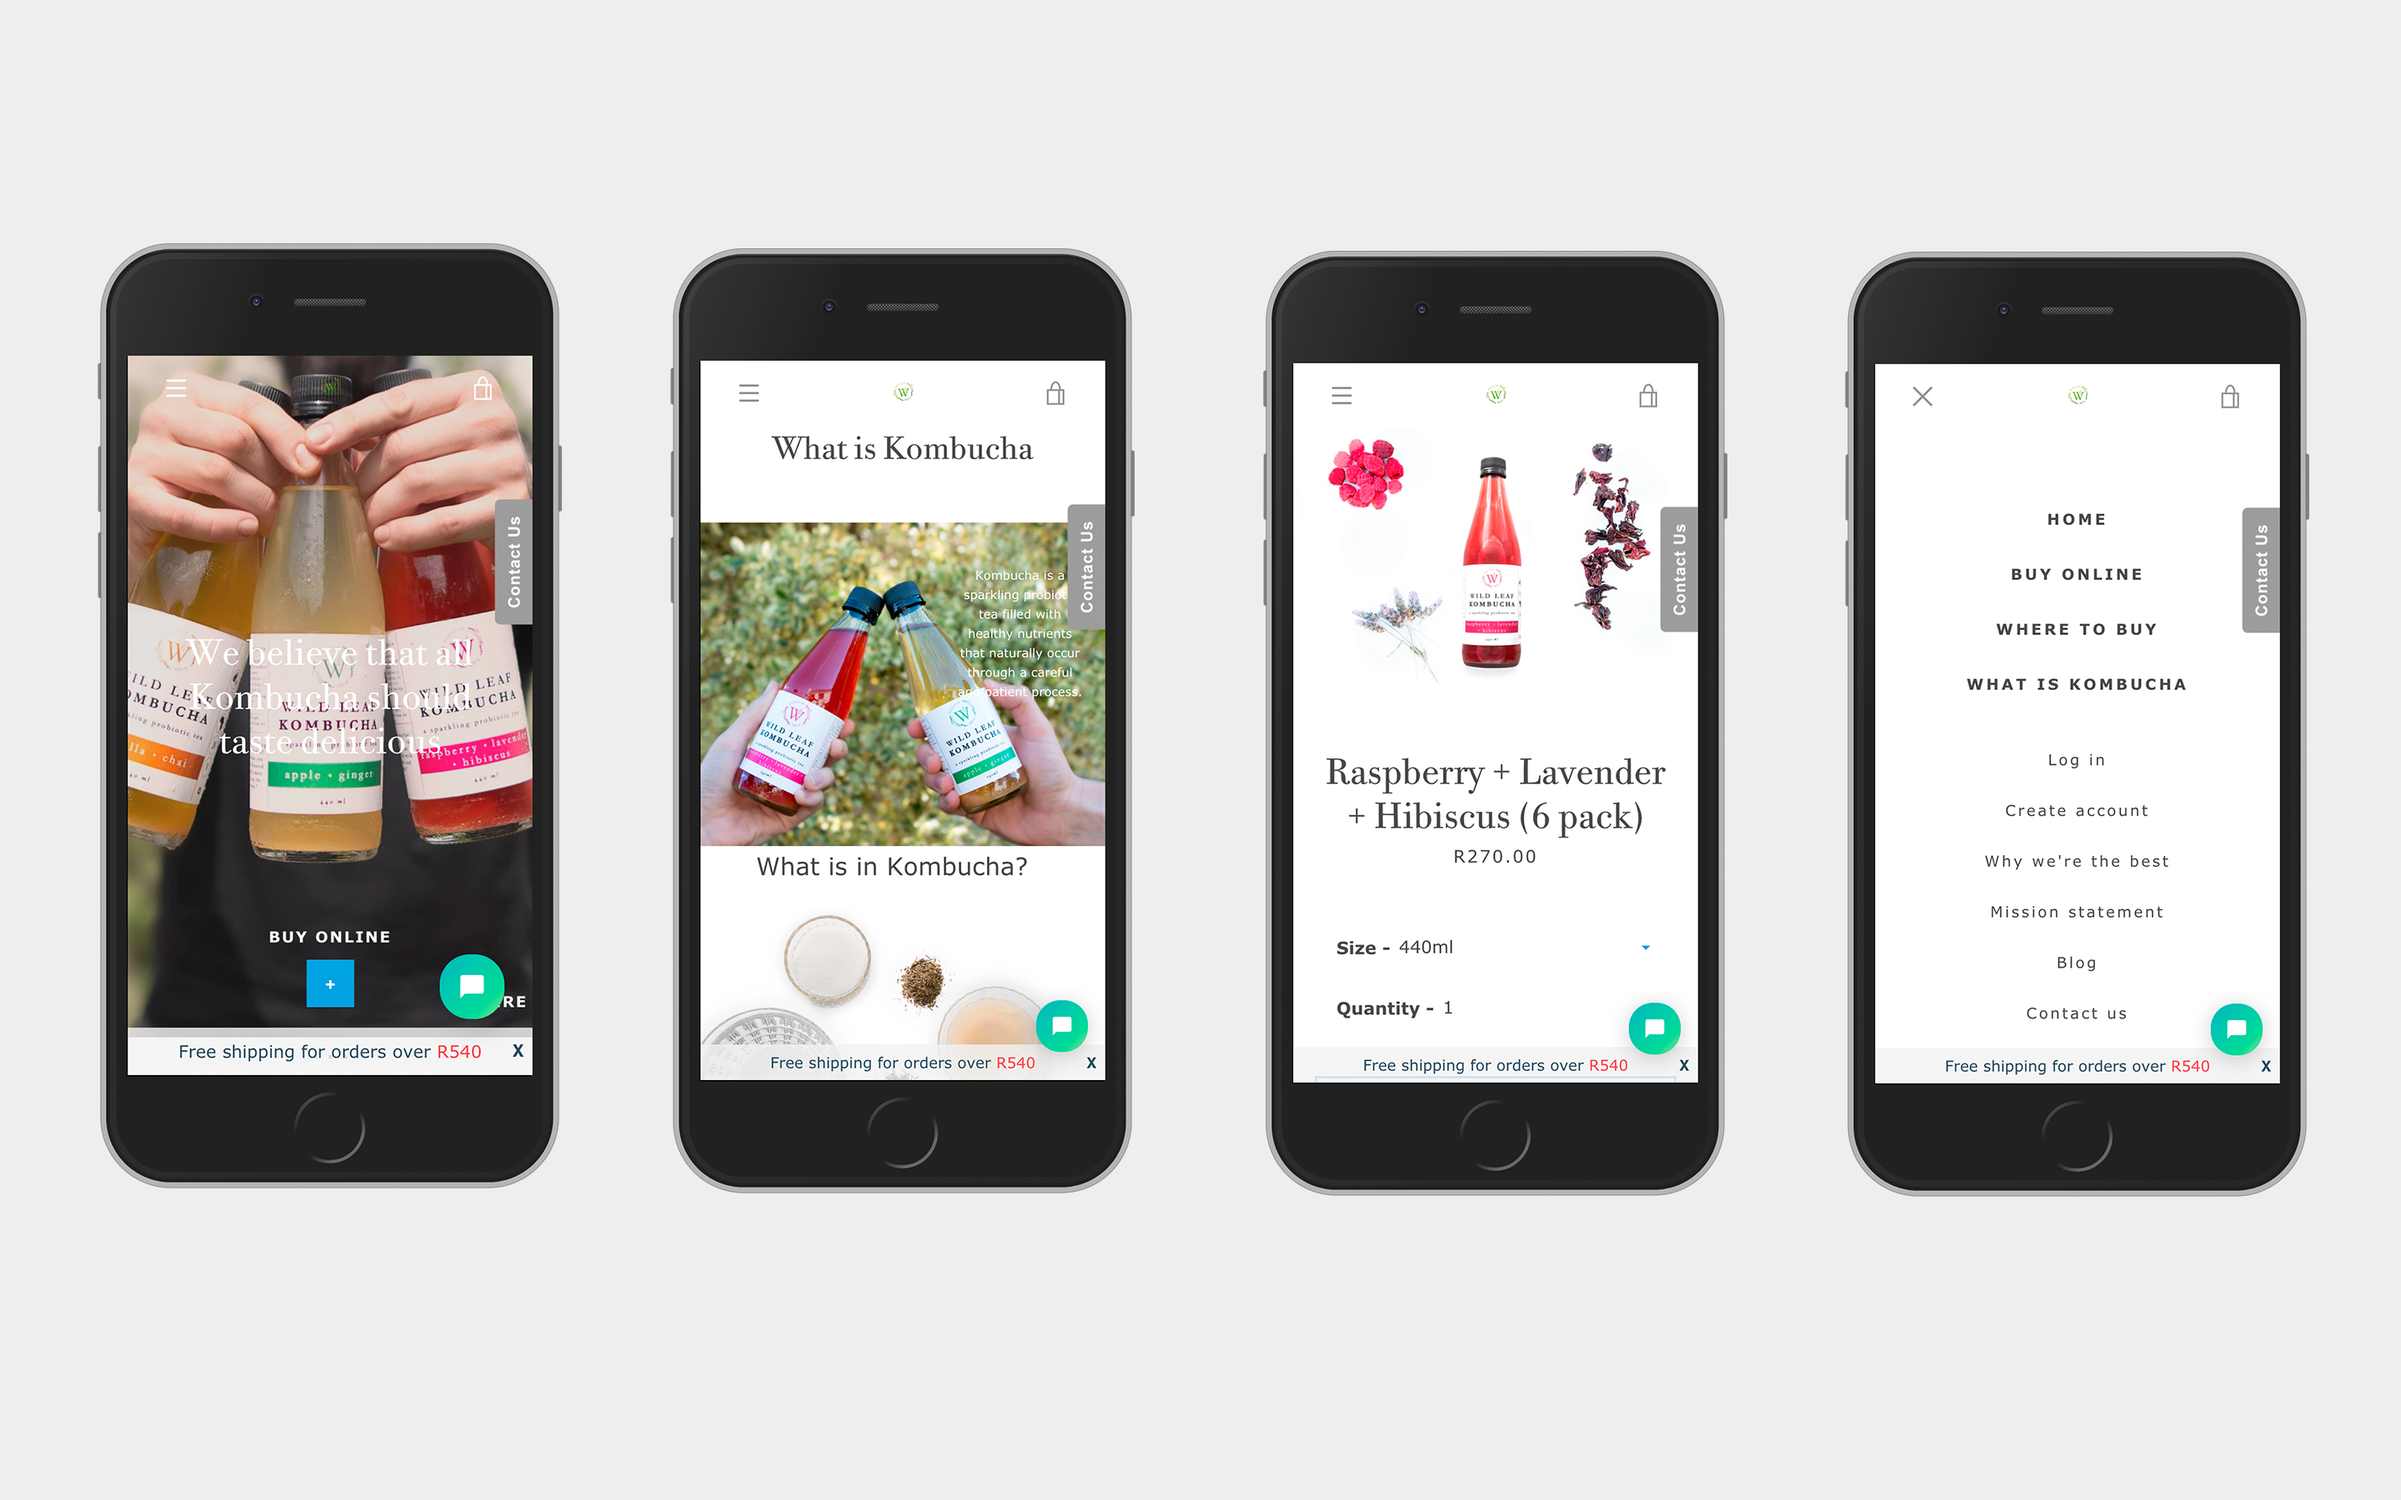
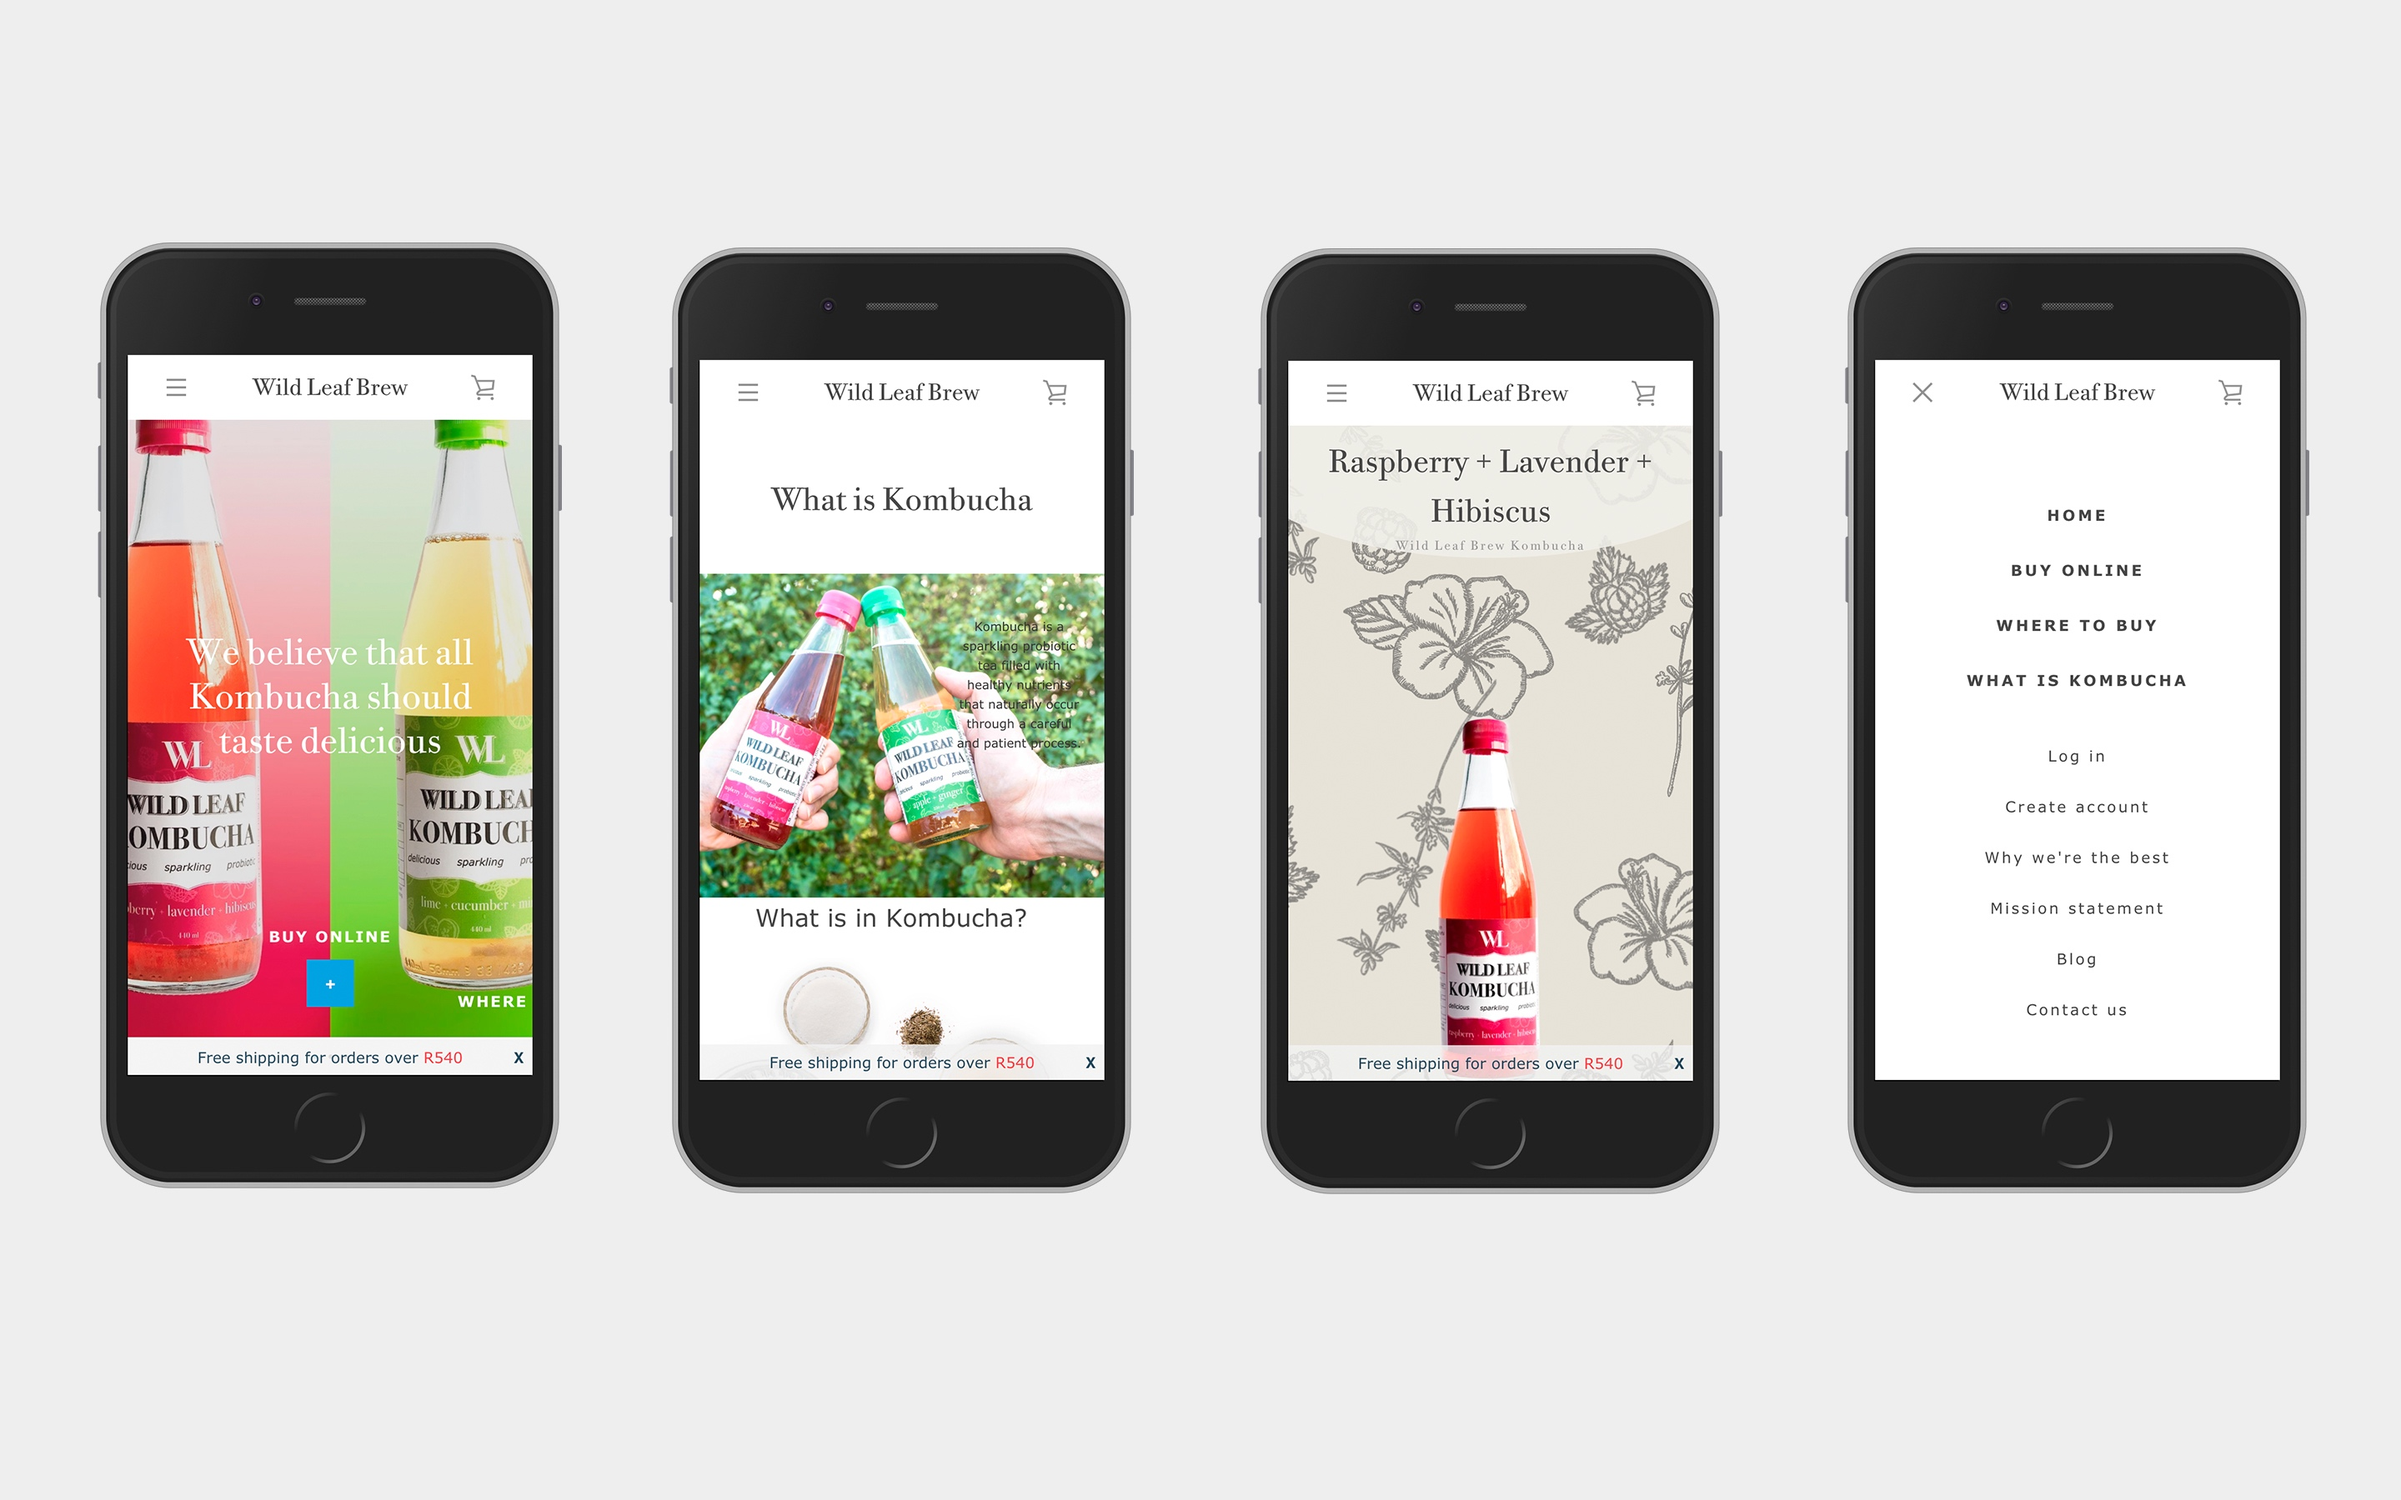
Product page add

diff --git a/Single product page/index.html b/Single product page/index.html
@@ -1,0 +1,92 @@
+<!DOCTYPE html>
+<html>
+    <head>
+        <title>Neil, freelance web developer and designer, Cape Town, South Africa</title>
+        <link href="../styles.css" rel="stylesheet" type="text/css">
+        <link href="https://fonts.googleapis.com/css?family=Open+Sans:300,400|Raleway&display=swap" rel="stylesheet">
+        <meta name="viewport" content="width=device-width, initial-scale=1.0">
+    </head>
+    <body>
+        <!--Nav-->
+        <section class="nav-bar">
+            <div class="logo">
+                <a href="../index.html"><img class="NM-logo" src="../Pictures/NM Logo fill.png"/></a>  
+            </div>
+            <div id="main-nav" class="main-nav">
+                <ul id="navlist" class="menu-hover-lines overlay-content">
+                    <li class="link"><a  href="../index.html">home</a></li>
+                    <li class="link"><a href="../About me/index.html">about</a></li>
+                    <li class="link"><a href="../My projects/index.html">portfolio</a></li>
+                </ul>   
+            </div>
+            <div class="hamburger">
+                <a href="javascript:void(0);" class="icon" >
+                    <input class="menu-btn"  type="checkbox" id="menu-btn" />
+                    <label class="menu-icon" id="hamburger-menu"  for="menu-btn" onclick="myFunction()"><span class="navicon"></span></label>
+                </a>
+            </div>
+         </section>
+        <!--Main section-->
+        <main>
+            <div class="project-title-text">
+                <h2>Wild Leaf Product Page</h2>
+                <h3>Wild Leaf Kombucha is a Cape Town based Kombucha company that sells their product online as well as a variety of stores.</h3>
+                <hr />
+            </div>
+            <div class="project-page-image image1">
+                <img src="../Pictures/Wild Leaf single product page.png">
+            </div>
+            <div class="project-text text1">
+                 <h3>The project</h3>
+                 <p>This project involved redesigning the product page on Shopify.
+                     <br />I used Sketch to design the product page, Visual Studio Code to create it and then I replaced the code on the Shopify product page with my own.
+                 </p>
+            </div>
+            <div class="project-page-image image2">
+                <img src="../Pictures/Product page Sketch.png">
+            </div>
+            <div class="project-text text2">
+                 <h3>My goal</h3>
+                 <p>My goal for this page was to make the layout look more modern as well as be responsive on different mobile screens.
+                     <br />The original product page on Shopify had no structure and was a very top to bottom layout which wasn't responsive on mobile.
+                </p>
+            </div>
+            <div class="project-page-image image3">
+                <img src="../Pictures/Product page Visual Studio Code.png">
+            </div>
+            <div class="project-text text3">
+                <h3>What I did</h3>
+                <ul>
+                    <li>Designed the product page using Sketch.</li>
+                    <li>Wrote the code on Visual Studio Code to create the page.</li> 
+                    <li>Replaced all the code on the Shopify product page with my own, ensuring that the products were still easily editable on the front-end of the Shopify platform.</li>
+                    <li>Created and edited all the product photos.</li>     
+                </ul>
+            </div>
+            <div class="project-page-image image4 mobile-full">
+                <img src="../Pictures/Product page Mobiles.jpg">
+            </div>
+        </main>
+
+
+
+         <!--Footer section-->
+        <footer>
+            <h3 onclick="openContact()">Contact me</h3>
+            <div id="contact-form" class="overlay-contact">
+                <a href="javascript:void(0)" class="closebtn" onclick="closeContact()">&times;</a>
+                <form class="overlay-content" method="post" action="https://formspree.io/neilmackay01@gmail.com">
+                    <p>Want to work together?<br/> Use the contact form below or <a id="email-me" href="mailto:neilmackay01@gmail.com">email me</a></p>
+                    <input class="input" type="text" name="name" maxlength="100" placeholder="Name" required />
+                    <br />
+                    <input class="input" type="email" name="email" maxlength="100" placeholder="Email" required />
+                    <br />
+                    <textarea class="textarea" name="message" cols="20" row="10" placeholder="Enter your message" required></textarea>
+                    <br />
+                    <input id="submit" type="submit" name="submit" value="Submit" />
+                </form>
+            </div>
+        </footer>
+        <script src="../lightbox.js"></script>  
+    </body>
+</html>

diff --git a/styles.css b/styles.css
@@ -337,26 +337,26 @@ img {
 #projects-home > a {
   text-decoration: none;
 }
-.WL-home {
+.project1 {
   grid-area: 2 / 1 / span 1 / -1; 
 }
-.TS-home {
+.project2 {
   grid-area: 3 / 1 / span 1 / -1; 
 }
-.EFM-home {
+.project3 {
   grid-area: 4 / 1 / span 1 / -1; 
 }
 
 @media only screen and (min-width: 900px) {
-  .WL-home {
+  .project1 {
     grid-area: 2 / 1 / span 1 / span 4; 
     margin: 30px;
   }
-  .TS-home {
+  .project2 {
     grid-area: 2 / 5 / span 1 / span 4; 
     margin: 30px;
   }
-  .EFM-home {
+  .project3 {
     grid-area: 2 / 9 / span 1 / span 4; 
     margin: 30px;
   }
@@ -378,8 +378,11 @@ img {
 .TS-project {
   grid-area: 3 / 1 / span 1 / -1; 
 }
-.EFM-project {
+.product-page-project {
   grid-area: 4 / 1 / span 1 / -1; 
+}
+.EFM-project {
+  grid-area: 5 / 1 / span 1 / -1; 
 }
 #projects > a {
   text-decoration: none;
@@ -387,15 +390,19 @@ img {
 @media only screen and (min-width: 900px) {
   .WL-project {
     grid-area: 2 / 1 / span 1 / span 4; 
-    margin: 30px 30px 250px 30px;
+    margin: 30px;
   }
   .TS-project {
     grid-area: 2 / 5 / span 1 / span 4; 
-    margin: 30px 30px 250px 30px;
+    margin: 30px;
+  }
+  .product-page-project {
+    grid-area: 2 / 9 / span 1 / span 4; 
+    margin: 30px;
   }
   .EFM-project {
-    grid-area: 2 / 9 / span 1 / span 4; 
-    margin: 30px 30px 250px 30px;
+    grid-area: 3 / 1 / span 1 / span 4; 
+    margin: 30px;
   }
 }
 /*About*/
@@ -527,6 +534,7 @@ li {
   padding: 10px 30px;
   text-align: center;
 }
+
 .image1 {
   grid-area: 2 / 1 / span 1 / -1; 
 }

diff --git a/index.html b/index.html
@@ -127,17 +127,17 @@
         <!--Projects home page-->
         <section id="projects-home">
             <h2 id="project-title"><div><hr /></div>My projects</h2>
-            <a class="WL-home project-image" href="Wild Leaf /index.html">
+            <a class="project1 project-image" href="Wild Leaf /index.html">
                 <p class="project-name">Ecommerce store</p>
                 <img src="Pictures/Wild Leaf home page mobile.jpg">
             </a>
-            <a class="TS-home project-image" href="Tiffany Sosa/index.html">
+            <a class="project2 project-image" href="Tiffany Sosa/index.html">
                 <p class="project-name">Graphic design portfolio</p>
                 <img src="Pictures/Tiffany Sosa home page mobile.jpg">
             </a>
-            <a class="EFM-home project-image" href="Earth Fair Market/index.html">
-                <p class="project-name">Local business prototype</p>
-                <img src="Pictures/EFM home page mobile.jpg">
+            <a class="project3 project-image" href="Single product page/index.html">
+                <p class="project-name">Single product page</p>
+                <img src="Pictures/Product Page home page.jpg">
             </a>
         </section>
 

diff --git a/My projects/index.html b/My projects/index.html
@@ -32,14 +32,18 @@
             <h2 id="project-title"><div></div>My projects</h2>
             <a class="WL-project project-image" href="../Wild Leaf /index.html">
                 <p class="project-name">Ecommerce store</p>
-                <img src="../Pictures/Wild Leaf home page.jpg">
+                <img src="../Pictures/Wild Leaf home page.png">
             </a>
             <a class="TS-project project-image" href="../Tiffany Sosa/index.html">
                 <p class="project-name">Graphic design portfolio</p>
                 <img src="../Pictures/Tiffany Sosa home page.jpg">
             </a>
+            <a class="product-page-project project-image" href="../Single product page/index.html">
+                <p class="project-name">Single product page</p>
+                <img src="../Pictures/Wild Leaf single product page.png">
+            </a>
             <a class="EFM-project project-image" href="../Earth Fair Market/index.html">
-                <p class="project-name">Graphic design portfolio</p>
+                <p class="project-name">Local business prototype</p>
                 <img src="../Pictures/EFM home page.jpg">
             </a>
         </section>

diff --git a/Wild Leaf /index.html b/Wild Leaf /index.html
@@ -34,7 +34,7 @@
                 <hr />
             </div>
             <div class="project-page-image image1">
-                <img src="../Pictures/Wild Leaf home page.jpg">
+                <img src="../Pictures/Wild Leaf home page.png">
             </div>
             <div class="project-text text1">
                  <h3>The project</h3>
@@ -43,7 +43,7 @@
                  </p>
             </div>
             <div class="project-page-image image2">
-                <img src="../Pictures/Wild Leaf product page.jpg">
+                <img src="../Pictures/Wild Leaf product page.png">
             </div>
             <div class="project-text text2">
                  <h3>My goal</h3>
@@ -52,7 +52,7 @@
                 </p>
             </div>
             <div class="project-page-image image3">
-                <img src="../Pictures/Wild Leaf checkout cart.jpg">
+                <img src="../Pictures/Wild Leaf single product page.png">
             </div>
             <div class="project-text text3">
                 <h3>What I did</h3>
